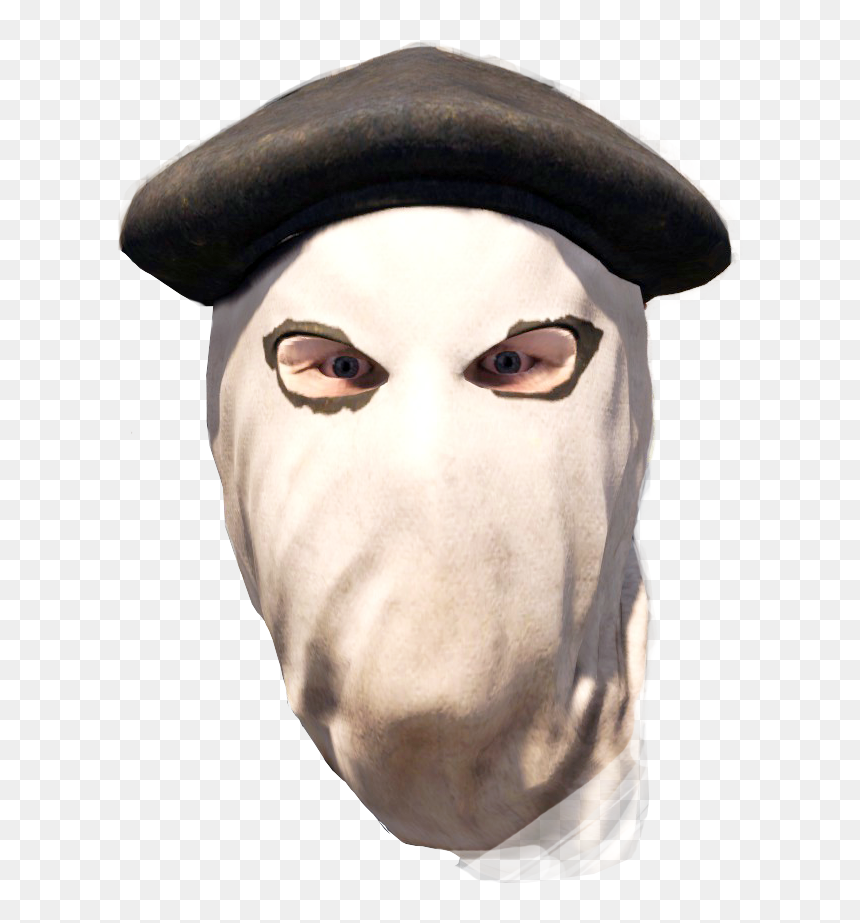
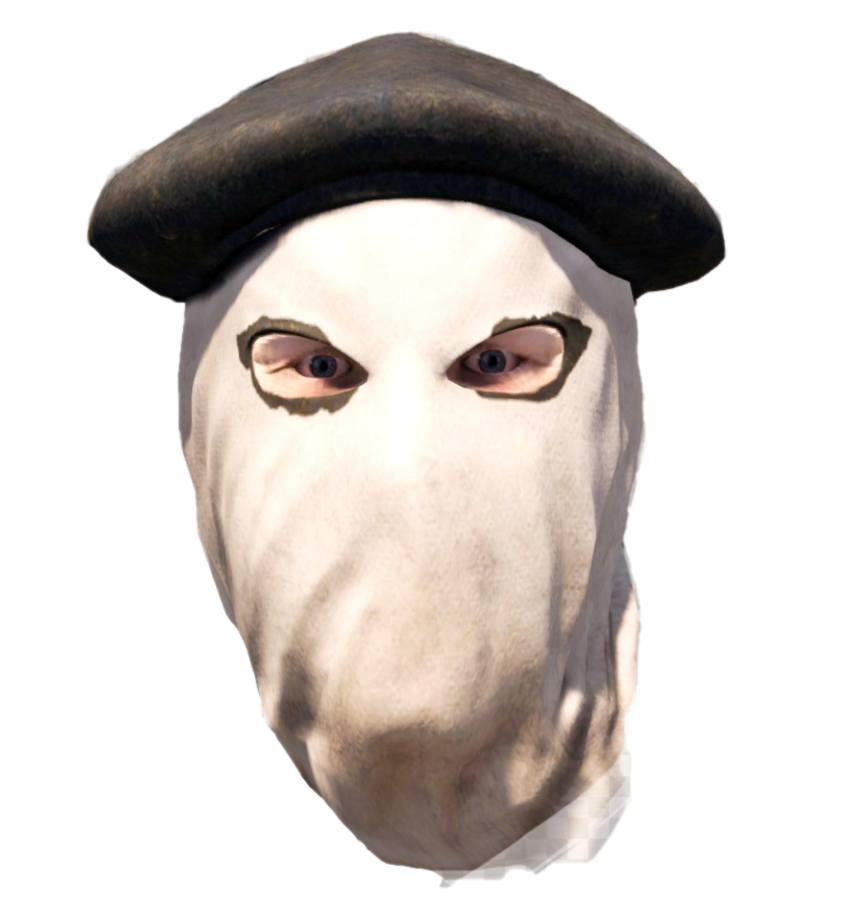
terrorist heads added

diff --git a/Kostur/Source/AimTrainer.cpp b/Kostur/Source/AimTrainer.cpp
@@ -22,6 +22,7 @@ AimTrainer::AimTrainer(int width, int height)
     textShaderProgram = createShader("Shaders/text.vert", "Shaders/text.frag");
     textureShaderProgram = createShader("Shaders/texture.vert", "Shaders/texture.frag");
     freetypeShaderProgram = createShader("Shaders/freetype.vert", "Shaders/freetype.frag");
+    texturedCircleShaderProgram = createShader("Shaders/textured_circle.vert", "Shaders/textured_circle.frag");
     
     textRenderer = new TextRenderer(freetypeShaderProgram, windowWidth, windowHeight);
     if (!textRenderer->loadFont("C:/Windows/Fonts/arial.ttf", 48)) {
@@ -30,6 +31,7 @@ AimTrainer::AimTrainer(int width, int height)
     
     studentInfoTexture = loadImageToTexture("Resources/indeks.png");
     backgroundTexture = loadImageToTexture("Resources/mirage.png");
+    terroristTexture = loadImageToTexture("Resources/terrorist.png");
     
     initBuffers();
     
@@ -69,8 +71,10 @@ AimTrainer::~AimTrainer() {
     glDeleteProgram(textShaderProgram);
     glDeleteProgram(textureShaderProgram);
     glDeleteProgram(freetypeShaderProgram);
+    glDeleteProgram(texturedCircleShaderProgram);
     glDeleteTextures(1, &studentInfoTexture);
     glDeleteTextures(1, &backgroundTexture);
+    glDeleteTextures(1, &terroristTexture);
     if (textRenderer) delete textRenderer;
 }
 
@@ -194,7 +198,13 @@ void AimTrainer::update(float deltaTime) {
 void AimTrainer::render() {
     drawTexture(0, 0, static_cast<float>(windowWidth), static_cast<float>(windowHeight), backgroundTexture);
     
-    glUseProgram(shaderProgram);
+    for (const auto& target : targets) {
+        if (target.active) {
+            drawCircle(target.x, target.y, target.radius, 1.0f, 0.3f, 0.3f);
+        }
+    }
+    
+    glUseProgram(textShaderProgram);
     
     float projection[16] = {
         2.0f / windowWidth, 0.0f, 0.0f, 0.0f,
@@ -203,17 +213,7 @@ void AimTrainer::render() {
         -1.0f, 1.0f, 0.0f, 1.0f
     };
     
-    int projLoc = glGetUniformLocation(shaderProgram, "uProjection");
-    glUniformMatrix4fv(projLoc, 1, GL_FALSE, projection);
-    
-    for (const auto& target : targets) {
-        if (target.active) {
-            drawCircle(target.x, target.y, target.radius, 1.0f, 0.3f, 0.3f);
-        }
-    }
-    
-    glUseProgram(textShaderProgram);
-    projLoc = glGetUniformLocation(textShaderProgram, "uProjection");
+    int projLoc = glGetUniformLocation(textShaderProgram, "uProjection");
     glUniformMatrix4fv(projLoc, 1, GL_FALSE, projection);
     
     if (!gameOver) {
@@ -403,6 +403,18 @@ void AimTrainer::render() {
 }
 
 void AimTrainer::drawCircle(float x, float y, float radius, float r, float g, float b) {
+    glUseProgram(texturedCircleShaderProgram);
+    
+    float projection[16] = {
+        2.0f / windowWidth, 0.0f, 0.0f, 0.0f,
+        0.0f, -2.0f / windowHeight, 0.0f, 0.0f,
+        0.0f, 0.0f, 1.0f, 0.0f,
+        -1.0f, 1.0f, 0.0f, 1.0f
+    };
+    
+    int projLoc = glGetUniformLocation(texturedCircleShaderProgram, "uProjection");
+    glUniformMatrix4fv(projLoc, 1, GL_FALSE, projection);
+    
     glBindVertexArray(VAO);
     
     float model[16] = {
@@ -412,11 +424,17 @@ void AimTrainer::drawCircle(float x, float y, float radius, float r, float g, fl
         x, y, 0.0f, 1.0f
     };
     
-    int modelLoc = glGetUniformLocation(shaderProgram, "uModel");
+    int modelLoc = glGetUniformLocation(texturedCircleShaderProgram, "uModel");
     glUniformMatrix4fv(modelLoc, 1, GL_FALSE, model);
     
-    int colorLoc = glGetUniformLocation(shaderProgram, "uColor");
+    int colorLoc = glGetUniformLocation(texturedCircleShaderProgram, "uColor");
     glUniform3f(colorLoc, r, g, b);
+    
+    glActiveTexture(GL_TEXTURE0);
+    glBindTexture(GL_TEXTURE_2D, terroristTexture);
+    
+    int texLoc = glGetUniformLocation(texturedCircleShaderProgram, "uTexture");
+    glUniform1i(texLoc, 0);
     
     glDrawArrays(GL_TRIANGLES, 0, 6);
 }

diff --git a/Kostur/Header/AimTrainer.h b/Kostur/Header/AimTrainer.h
@@ -25,11 +25,13 @@ private:
     unsigned int textShaderProgram;
     unsigned int textureShaderProgram;
     unsigned int freetypeShaderProgram;
+    unsigned int texturedCircleShaderProgram;
     unsigned int VAO, VBO;
     unsigned int textVAO, textVBO;
     unsigned int textureVAO, textureVBO;
     unsigned int studentInfoTexture;
     unsigned int backgroundTexture;
+    unsigned int terroristTexture;
     TextRenderer* textRenderer;
     
     std::vector<Target> targets;
